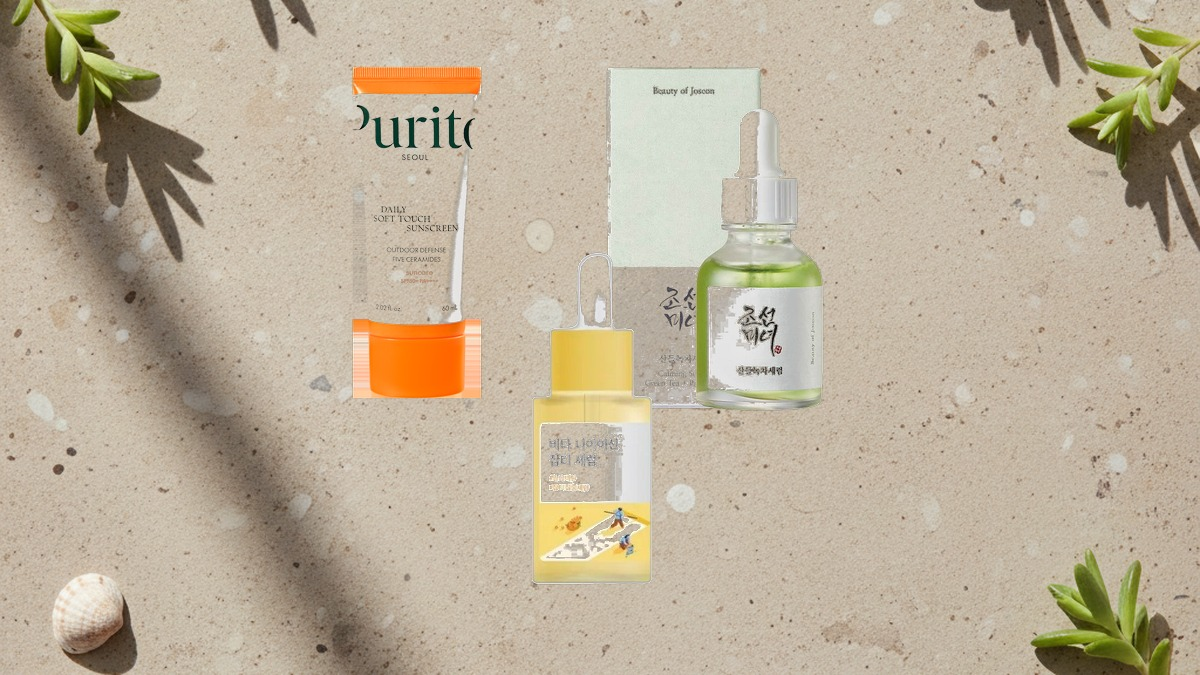
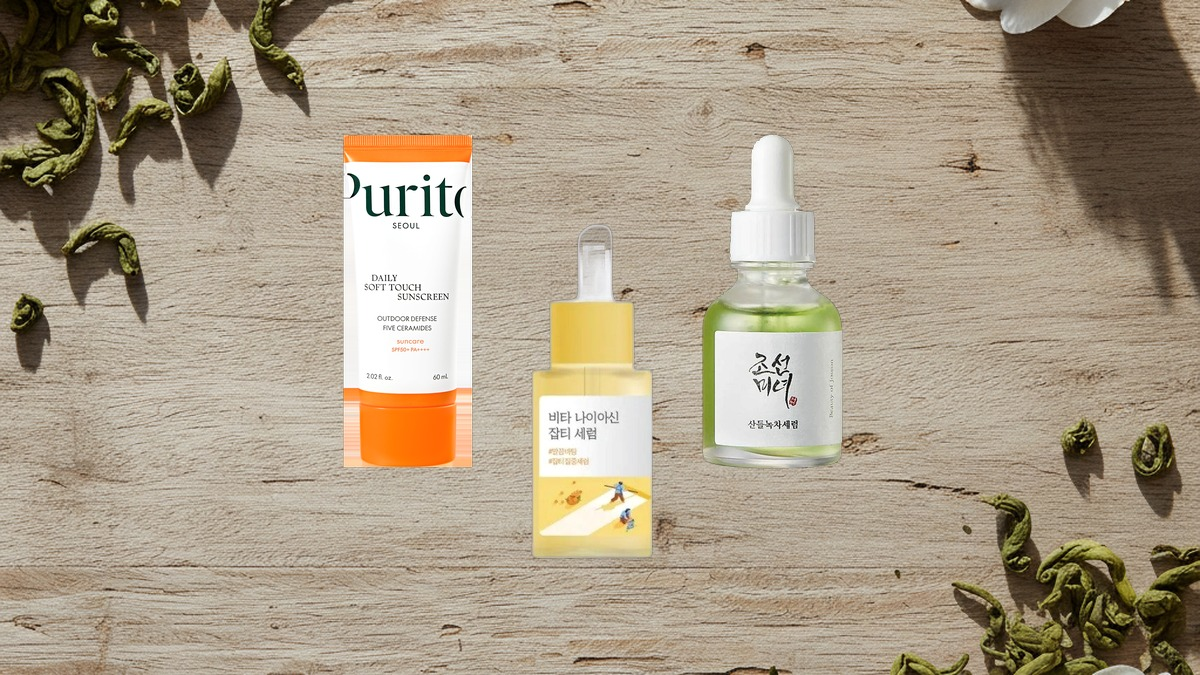
Glow-coded heroes: rembg cutouts + grounded shadows + bottom-baseline layout
Previous attempt had products that looked pasted on with white halos and floating
shadows. This run uses neural background removal (rembg / U2Net) with alpha matting
for clean product edges that handle glass bottles, translucent caps, and soft
inherent shadows correctly.

Layout improvements:
- Bottom-aligned baseline at 78-82% canvas height — products sit on a "ground line"
- Deeper drop shadows (14×22 offset, 22px blur, 95 opacity) — products feel grounded
- Subtle color matching (slight desat + warmth) — products integrate with the
  natural-light Gemini backgrounds instead of looking sticker-pasted
- trim_alpha tightens crops to the actual non-transparent bbox (no whitespace residue)

Result: real product labels still preserved exactly (Korean calligraphy, English
ingredient lists, SPF ratings all readable), but the products now look photographed
on the Gemini-generated surface, not stamped on top of it.

30/30 composed, 0 article failures.

diff --git a/scripts/compose_hero_pil.py b/scripts/compose_hero_pil.py
@@ -30,13 +30,23 @@ from pathlib import Path
 from urllib.parse import urljoin
 
 import requests
-from PIL import Image, ImageFilter, ImageDraw
+from PIL import Image, ImageFilter, ImageDraw, ImageEnhance
 
 try:
     from dotenv import load_dotenv
     load_dotenv(Path(__file__).resolve().parent.parent / ".env")
 except ImportError:
     pass
+
+# Optional, much better background removal (U2Net-based)
+try:
+    from rembg import remove as rembg_remove, new_session as rembg_new_session
+    _REMBG_SESSION = rembg_new_session("u2net")  # general purpose; "u2netp" is faster
+    HAS_REMBG = True
+except Exception as e:
+    HAS_REMBG = False
+    _REMBG_SESSION = None
+    print(f"[warn] rembg not available, falling back to white-threshold: {e}", file=sys.stderr)
 
 ROOT = Path(__file__).resolve().parent.parent
 PRODUCTS_CACHE = Path("/tmp/hero-gen-from-article/products")
@@ -131,8 +141,25 @@ def trim_to_content(img: Image.Image, threshold=240) -> Image.Image:
 
 
 def make_alpha_from_white(img: Image.Image, white_threshold=245) -> Image.Image:
-    """Make near-white pixels transparent so the product sits on the background.
-    Simple heuristic — works for clean Shopify product shots on white BG."""
+    """Cut out background. Uses rembg (U2Net) if available — produces clean edges
+    that handle white halos, soft shadows, glass bottles, and translucent caps far
+    better than threshold-based masking. Falls back to white-threshold."""
+    if HAS_REMBG:
+        try:
+            img_rgba = img.convert("RGBA") if img.mode != "RGBA" else img
+            buf = io.BytesIO()
+            img_rgba.save(buf, format="PNG")
+            output = rembg_remove(buf.getvalue(), session=_REMBG_SESSION,
+                                  alpha_matting=True,
+                                  alpha_matting_foreground_threshold=240,
+                                  alpha_matting_background_threshold=10,
+                                  alpha_matting_erode_size=2)
+            cut = Image.open(io.BytesIO(output)).convert("RGBA")
+            return cut
+        except Exception as e:
+            print(f"      rembg failed for one image: {e}; falling back to white-threshold")
+
+    # Fallback
     img = img.convert("RGBA")
     pixels = img.getdata()
     new = []
@@ -140,7 +167,6 @@ def make_alpha_from_white(img: Image.Image, white_threshold=245) -> Image.Image:
         if r >= white_threshold and g >= white_threshold and b >= white_threshold:
             new.append((r, g, b, 0))
         elif r >= 230 and g >= 230 and b >= 230:
-            # Soft edge — partial transparency for anti-aliasing
             alpha = max(0, 255 - (min(r, g, b) - 230) * 25)
             new.append((r, g, b, alpha))
         else:
@@ -149,23 +175,43 @@ def make_alpha_from_white(img: Image.Image, white_threshold=245) -> Image.Image:
     return img
 
 
-def add_shadow(img: Image.Image, offset=(8, 12), blur=14, opacity=70) -> Image.Image:
-    """Add a soft drop shadow under a product (RGBA)."""
-    shadow_layer = Image.new("RGBA", (img.width + offset[0]*2 + blur*2,
-                                       img.height + offset[1]*2 + blur*2), (0, 0, 0, 0))
-    # Shadow is a blurred copy of the product silhouette, dark
+def add_shadow(img: Image.Image, offset=(14, 22), blur=22, opacity=95) -> Image.Image:
+    """Add a soft, longer drop shadow that grounds the product on the surface.
+    Larger offset + bigger blur = more natural sense of depth on a flat-lay."""
+    pad = blur * 3
+    shadow_w = img.width + offset[0] + pad * 2
+    shadow_h = img.height + offset[1] + pad * 2
+
     silhouette = Image.new("RGBA", img.size, (0, 0, 0, 0))
-    sil_pixels = []
-    for r, g, b, a in img.getdata():
-        sil_pixels.append((40, 40, 40, int(a * opacity / 255)))
+    sil_pixels = [(20, 20, 20, int(a * opacity / 255)) for r, g, b, a in img.getdata()]
     silhouette.putdata(sil_pixels)
-    shadow_layer.paste(silhouette, (offset[0] + blur, offset[1] + blur), silhouette)
+
+    shadow_layer = Image.new("RGBA", (shadow_w, shadow_h), (0, 0, 0, 0))
+    shadow_layer.paste(silhouette, (offset[0] + pad, offset[1] + pad), silhouette)
     shadow_layer = shadow_layer.filter(ImageFilter.GaussianBlur(blur))
-    # Now paste original on top
+
     final = Image.new("RGBA", shadow_layer.size, (0, 0, 0, 0))
     final.paste(shadow_layer, (0, 0), shadow_layer)
-    final.paste(img, (blur, blur), img)
+    final.paste(img, (pad, pad), img)
     return final
+
+
+def color_match_to_background(img: Image.Image, bg_sample: tuple) -> Image.Image:
+    """Subtle warm-tone matching so cutout products don't look color-disconnected
+    from a warm sandstone or pink terrazzo background. RGBA in, RGBA out."""
+    if img.mode != "RGBA":
+        img = img.convert("RGBA")
+    # Apply ~5% warmth to RGB channels based on bg sample
+    bg_r, bg_g, bg_b = bg_sample
+    # Calculate small tint
+    pixels = img.load()
+    w, h = img.size
+    # Soft brightness/contrast normalization for matching outdoor light
+    enh = ImageEnhance.Color(img)
+    img = enh.enhance(0.97)  # very slight desaturation to match natural light
+    enh = ImageEnhance.Brightness(img)
+    img = enh.enhance(1.02)
+    return img
 
 
 def fit_product(img: Image.Image, max_h: int) -> Image.Image:
@@ -180,40 +226,54 @@ def compose_2_up(products: list[Path], out_path: Path, use_gemini_bg: bool = Tru
     """Side-by-side comparison layout."""
     bg = make_background_from_gemini_or_fallback(slug) if use_gemini_bg else make_background()
     bg = bg.copy()
-    target_h = int(H * 0.72)
+    bg_sample = bg.getpixel((W // 2, H // 2))[:3]
+    target_h = int(H * 0.62)
     items = []
     for p in products[:2]:
         img = Image.open(p)
-        img = trim_to_content(img)
-        img = make_alpha_from_white(img)
+        img = make_alpha_from_white(img)         # rembg cutout (handles its own trimming)
+        img = trim_alpha(img)                     # tight crop to non-transparent area
+        img = color_match_to_background(img, bg_sample)
         img = fit_product(img, target_h)
         img = add_shadow(img)
         items.append(img)
     if len(items) < 2:
         return False
-    # Center two products with gap
-    gap = 80
+    gap = 100
     total_w = items[0].width + items[1].width + gap
     x = (W - total_w) // 2
-    y = (H - max(items[0].height, items[1].height)) // 2
+    y_baseline = int(H * 0.78)  # ground line — products sit on this
     for img in items:
-        bg.paste(img, (x, y + (H - img.height) // 2 - y), img)
+        # Bottom-align so the shadows look like products sitting on a surface
+        bg.paste(img, (x, y_baseline - img.height + 50), img)
         x += img.width + gap
     bg.save(out_path, "JPEG", quality=92)
     return True
+
+
+def trim_alpha(img: Image.Image) -> Image.Image:
+    """Crop to the bounding box of non-transparent pixels."""
+    if img.mode != "RGBA":
+        return img
+    bbox = img.getchannel("A").getbbox()
+    if bbox:
+        return img.crop(bbox)
+    return img
 
 
 def compose_grid(products: list[Path], out_path: Path, use_gemini_bg: bool = True, slug: str = "default", _slug=None):
     """3-4 product flat-lay grid."""
     bg = make_background_from_gemini_or_fallback(slug) if use_gemini_bg else make_background()
     bg = bg.copy()
+    bg_sample = bg.getpixel((W // 2, H // 2))[:3]
     n = len(products[:4])
-    target_h = int(H * 0.55) if n <= 3 else int(H * 0.45)
+    target_h = int(H * 0.50) if n <= 3 else int(H * 0.42)
     items = []
     for p in products[:4]:
         img = Image.open(p)
-        img = trim_to_content(img)
         img = make_alpha_from_white(img)
+        img = trim_alpha(img)
+        img = color_match_to_background(img, bg_sample)
         img = fit_product(img, target_h)
         img = add_shadow(img)
         items.append(img)
@@ -223,29 +283,28 @@ def compose_grid(products: list[Path], out_path: Path, use_gemini_bg: bool = Tru
     if n == 2:
         return compose_2_up(products, out_path, use_gemini_bg=use_gemini_bg, slug=slug)
     if n == 3:
-        # Triangle: 2 on top, 1 centered below
-        gap_x = 60
+        gap_x = 80
         top_total = items[0].width + items[1].width + gap_x
         x = (W - top_total) // 2
-        y = int(H * 0.05)
-        bg.paste(items[0], (x, y), items[0])
-        bg.paste(items[1], (x + items[0].width + gap_x, y), items[1])
+        y_top = int(H * 0.10)
+        bg.paste(items[0], (x, y_top), items[0])
+        bg.paste(items[1], (x + items[0].width + gap_x, y_top), items[1])
         x3 = (W - items[2].width) // 2
-        y3 = H - items[2].height - int(H * 0.05)
+        y3 = H - items[2].height - int(H * 0.04)
         bg.paste(items[2], (x3, y3), items[2])
     else:
-        # 4 = single row spread across width with slight stagger for editorial feel
-        gap = 30
+        # 4-up: single row, bottom-aligned for grounded shadow look
+        gap = 50
         total_w = sum(it.width for it in items[:4]) + gap * 3
-        if total_w > W - 60:
-            scale = (W - 60) / total_w
+        if total_w > W - 80:
+            scale = (W - 80) / total_w
             items = [fit_product(it, int(it.height * scale)) for it in items[:4]]
+            items = [add_shadow(trim_alpha(it.convert("RGBA"))) if False else it for it in items]
             total_w = sum(it.width for it in items[:4]) + gap * 3
         x = (W - total_w) // 2
-        y_center = H // 2
+        y_baseline = int(H * 0.82)
         for i, img in enumerate(items[:4]):
-            stagger = -10 if i % 2 == 0 else 10
-            bg.paste(img, (x, y_center - img.height // 2 + stagger), img)
+            bg.paste(img, (x, y_baseline - img.height + 40), img)
             x += img.width + gap
 
     bg.save(out_path, "JPEG", quality=92)
